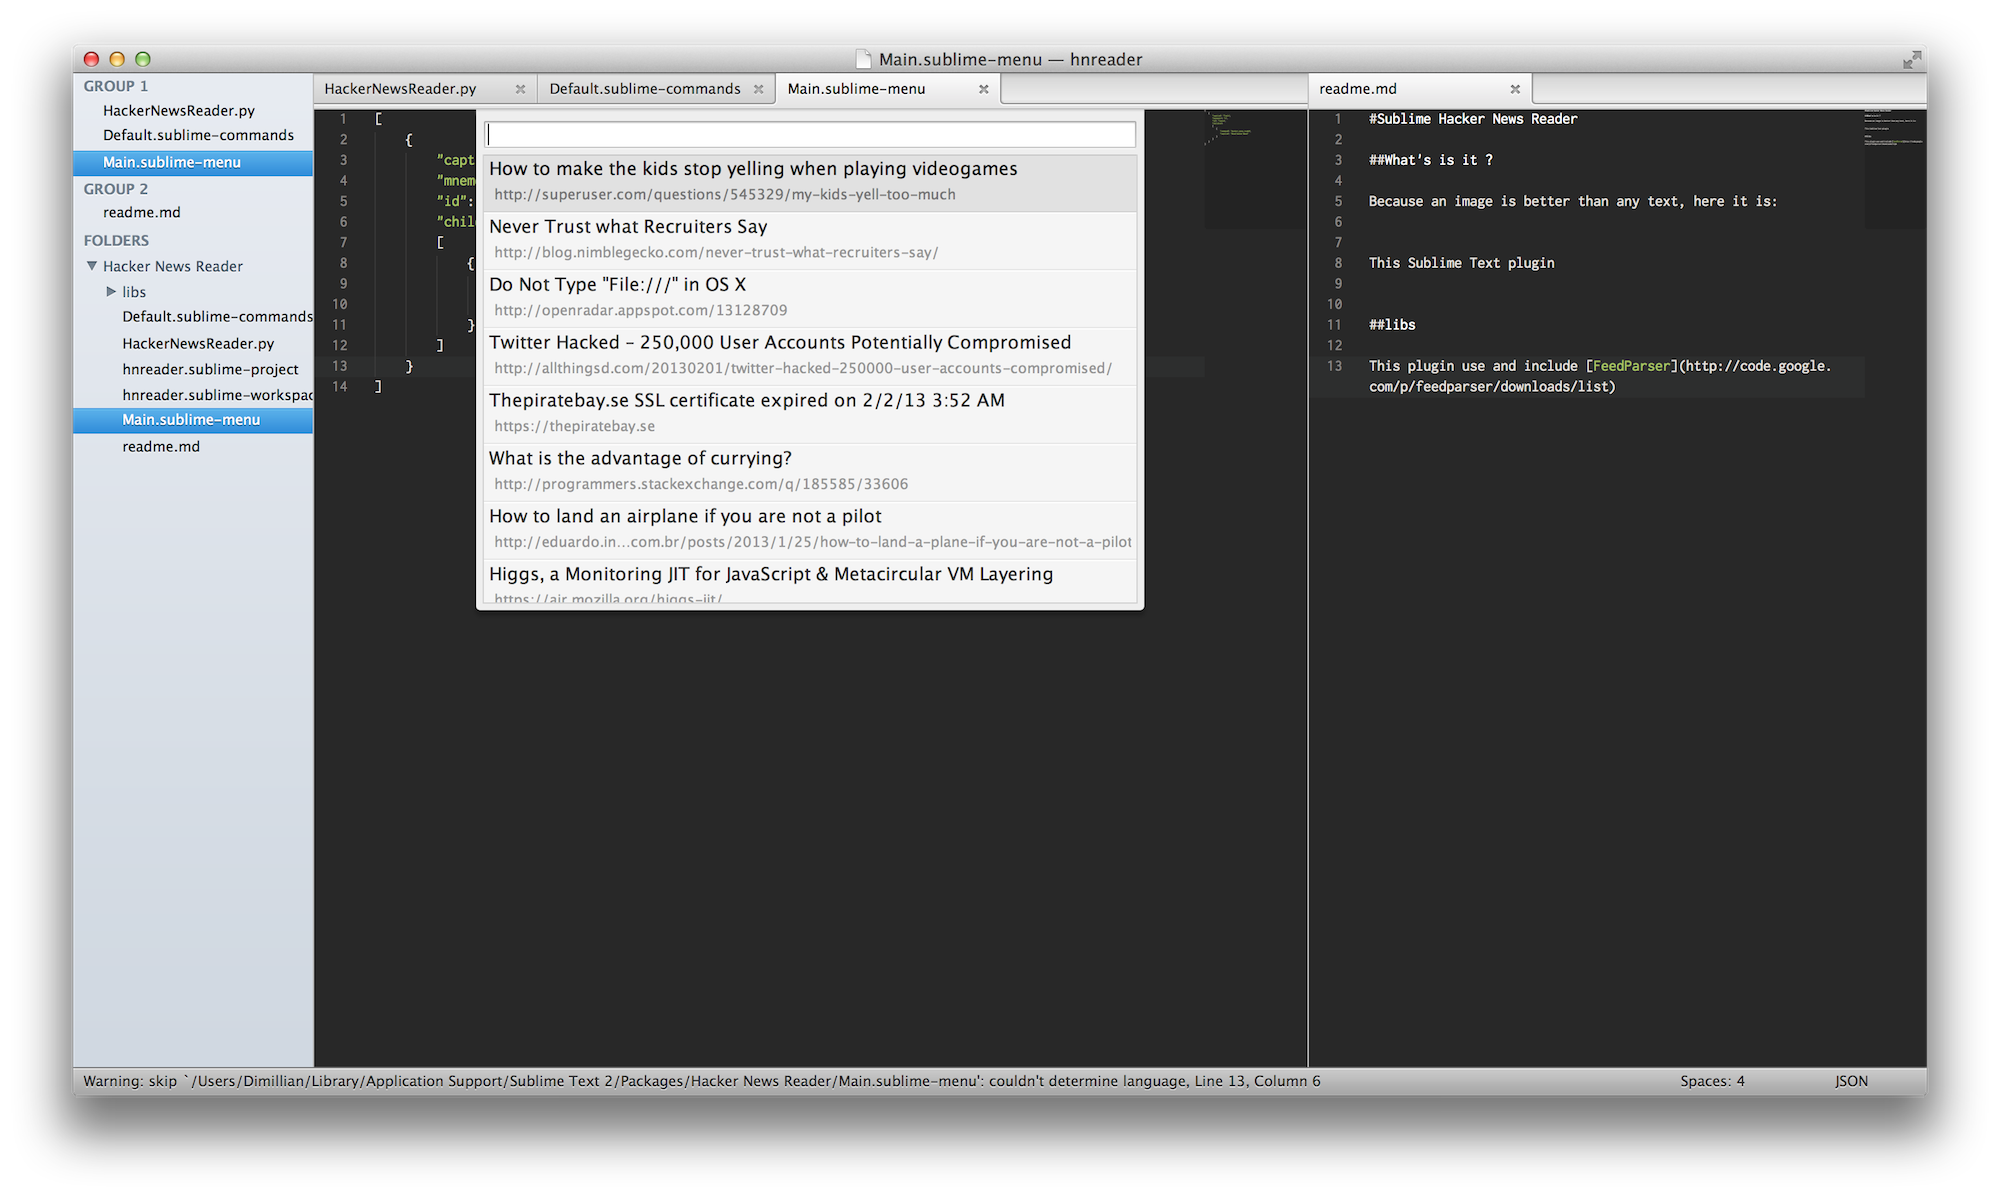
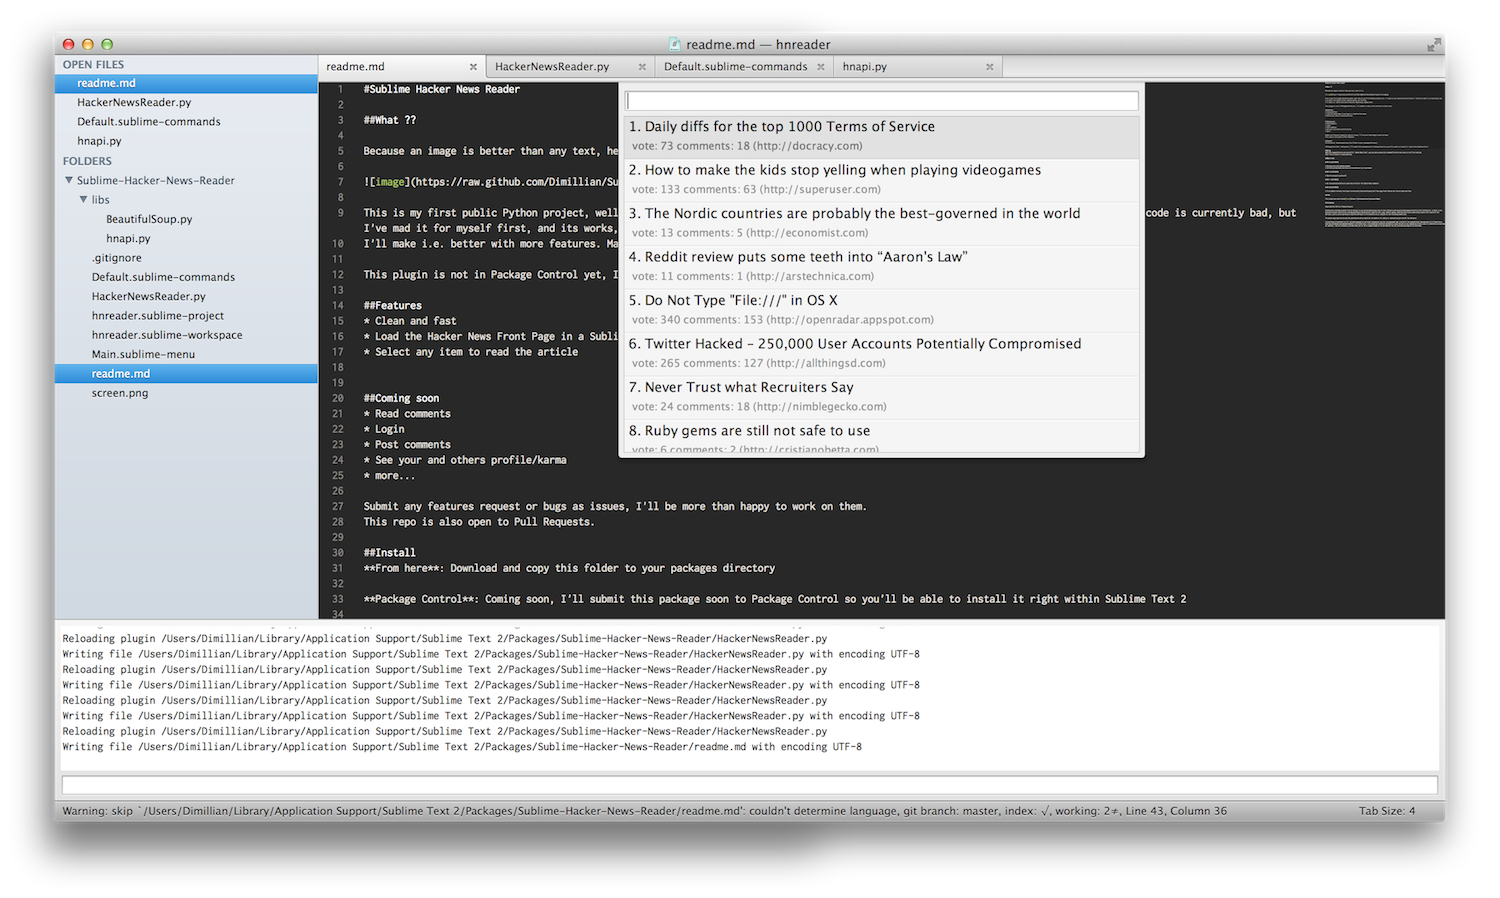
1.3: Display comments count and vote + fix menu bug

diff --git a/HackerNewsReader.py b/HackerNewsReader.py
@@ -1,4 +1,4 @@
-#V1.2
+#V1.3
 
 import sublime
 import sublime_plugin
@@ -22,25 +22,28 @@ class HackerNewsReader(sublime_plugin.WindowCommand):
 	def displayItems(self):
 		self.feed_text = []
 		for item in self.hnData:
-			print item.printDetails()
-			self.feed_text.append([item.title.decode('utf8'), item.URL])
+			first_line = '%s. %s' % (item.number, item.title.decode('utf8'))
+			second_line = 'vote: %s comments: %s (%s)' % (item.score, item.commentCount, item.domain)
+			self.feed_text.append([first_line, second_line])
 
 		self.window.show_quick_panel(self.feed_text, self.onItemSelection)
 
 	def onItemSelection(self, index):
-		self.selected_item = index
-		menu_text = []
-		menu_text.append('Open comments on Hacker News')
-		menu_text.append('Read the article')
-		self.window.show_quick_panel(menu_text, self.onMenuChoiceSelection)
+		if (index != -1):
+			self.selected_item = index
+			menu_text = []
+			menu_text.append('Read the article')
+			menu_text.append('Open comments on Hacker News')
+			self.window.show_quick_panel(menu_text, self.onMenuChoiceSelection)
 
 	def onMenuChoiceSelection(self, index):
-		if (index == 0):	
-			url = self.hnData[self.selected_item].commentsURL
-		else:
-			url = self.hnData[self.selected_item].URL
-		import webbrowser
-		webbrowser.open(url)
+		if (index != -1):
+			if (index == 1):	
+				url = self.hnData[self.selected_item].commentsURL
+			else:
+				url = self.hnData[self.selected_item].URL
+			import webbrowser
+			webbrowser.open(url)
 
 class HNRSSLoad(threading.Thread):
 	def __init__(self, callback):

diff --git a/README.md b/README.md
@@ -38,6 +38,11 @@ Feel free to bind it to any shortcut.
 
 ##What's new
 
+###V1.3 (2/2/2013)
+
+* Display vote and comments count.
+* Correctly close menu and do no action when esc key is pressed.
+
 ###V1.2 (2/2/2013)
 
 * Rewrite using hn python API
